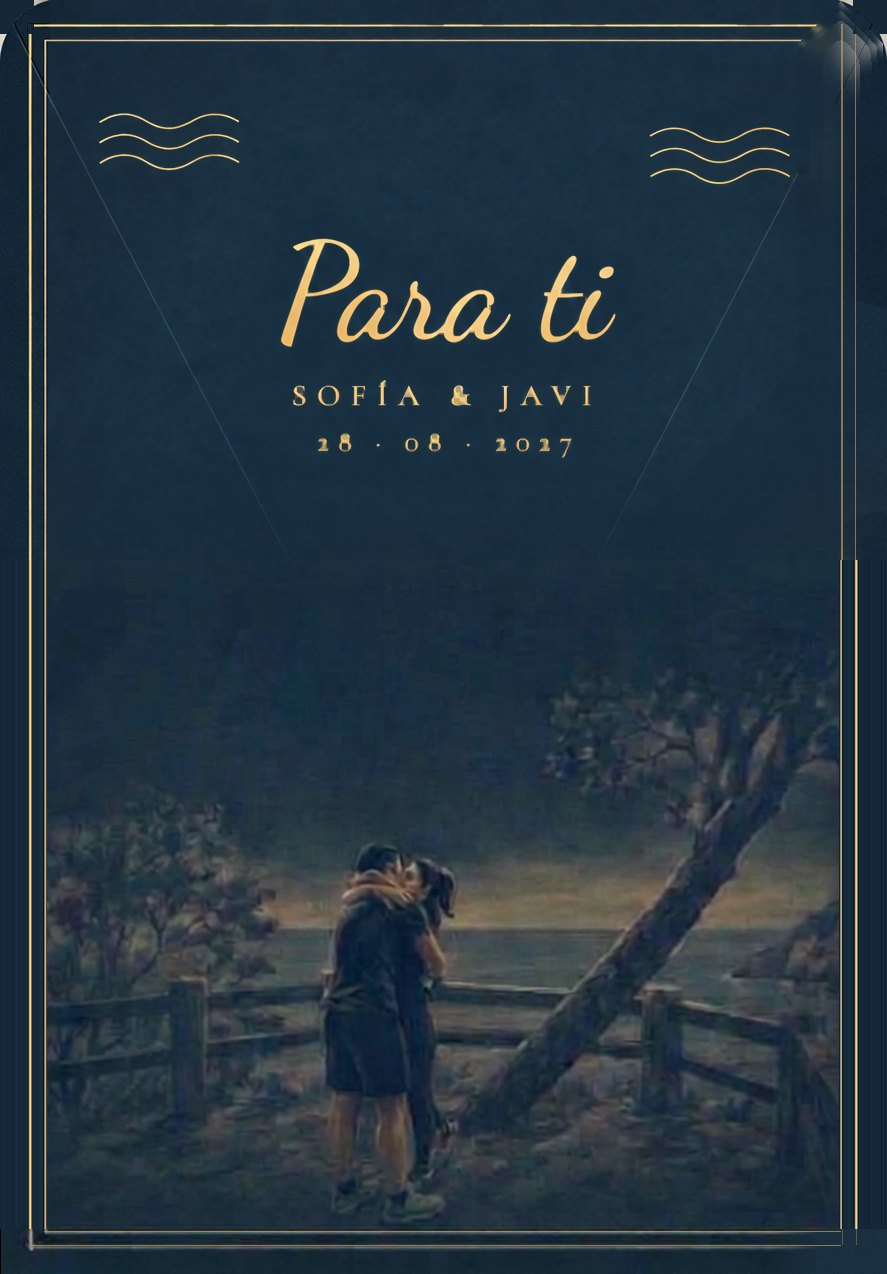
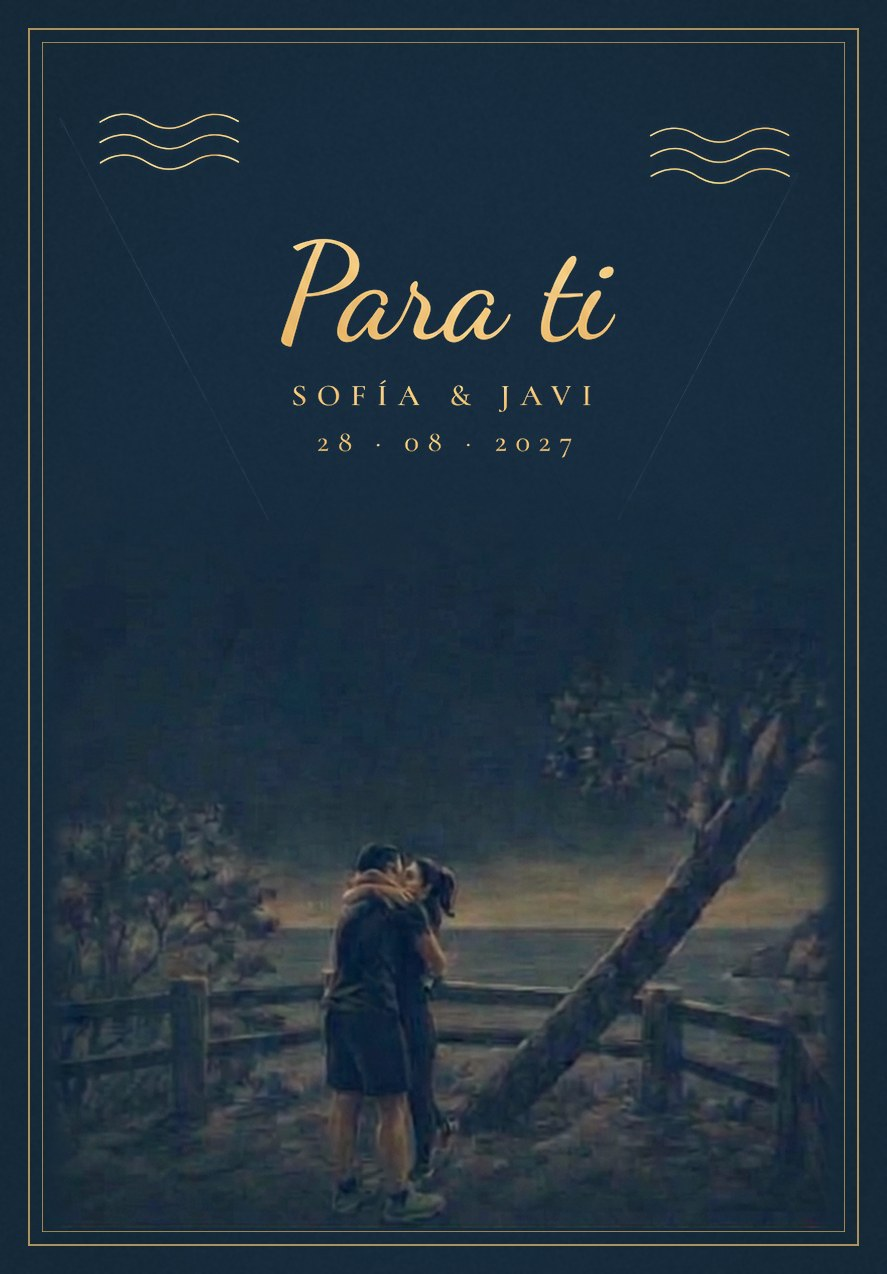
Sobre rehecho limpio: marco dorado, pliegues centrados y cordel a medida
Claude-Session: https://claude.ai/code/session_01PRGUqaakqaCE54LNyAMwaz

Changed region(s): [[0.0304, 0.0, 1.0, 0.9796], [0.3653, 0.3367, 0.3957, 0.3673]]

diff --git a/css/propuesta.css b/css/propuesta.css
@@ -73,6 +73,10 @@ body.con-sobre { overflow: hidden; }
 .solapa--arr .solapa__cara { clip-path: polygon(0 0, 50% 50%, 100% 0); }
 .solapa--arr .solapa__dorso { clip-path: polygon(0 100%, 50% 50%, 100% 100%); transform: rotateX(180deg); }
 
+.sobre__pliegues { inset: 0; width: 100%; height: 100%; z-index: 4; pointer-events: none; fill: none; transition: opacity .6s; }
+.sobre__pliegues path { stroke: rgba(0, 0, 0, .2); stroke-width: 1.2; vector-effect: non-scaling-stroke; }
+.sobre.paso3 .sobre__pliegues { opacity: 0; }
+
 /* Piezas (posiciones medidas en la ilustración) */
 .pieza { display: block; max-width: none; pointer-events: none; transition: transform 1s cubic-bezier(.55, 0, .35, 1), opacity .9s ease; }
 /* Un solo cordel vertical (dos cuerdecillas) a la izquierda; nudo en (22%, 46.5%) */
@@ -104,7 +108,7 @@ body.con-sobre { overflow: hidden; }
 @keyframes sello-latido { 0%, 100% { transform: scale(1); } 50% { transform: scale(1.05); } }
 
 .sobre__pista {
-  left: 0; right: 0; top: 40.5%; z-index: 8; margin: 0; text-align: center;
+  left: 0; right: 0; top: 38%; z-index: 8; margin: 0; text-align: center;
   color: #e8d3a2; font: italic 500 clamp(15px, 4.2vw, 19px)/1 var(--fuente-serif); letter-spacing: .04em;
   text-shadow: 0 1px 3px rgba(0, 0, 0, .5);
   animation: pista 2.6s ease-in-out infinite; transition: opacity .3s;

diff --git a/index.html b/index.html
@@ -49,6 +49,8 @@
       <div class="solapa solapa--der"><div class="solapa__cara"></div><div class="solapa__dorso"></div></div>
       <div class="solapa solapa--aba"><div class="solapa__cara"></div><div class="solapa__dorso"></div></div>
       <div class="solapa solapa--arr"><div class="solapa__cara"></div><div class="solapa__dorso"></div></div>
+      <!-- Pliegues del sobre: diagonales de las esquinas al centro -->
+      <svg class="sobre__pliegues" viewBox="0 0 100 100" preserveAspectRatio="none" aria-hidden="true"><path d="M0 0 L50 50 L100 0 M0 100 L50 50 L100 100"/></svg>
       <!-- Interior del sobre: forro y tarjeta de papel que se acerca al final -->
       <div class="sobre__interior" aria-hidden="true"><div class="sobre__carta"><span>Sofía &amp; Javi</span></div></div>
       <!-- Cordel de yute atado en cruz, centrado -->
